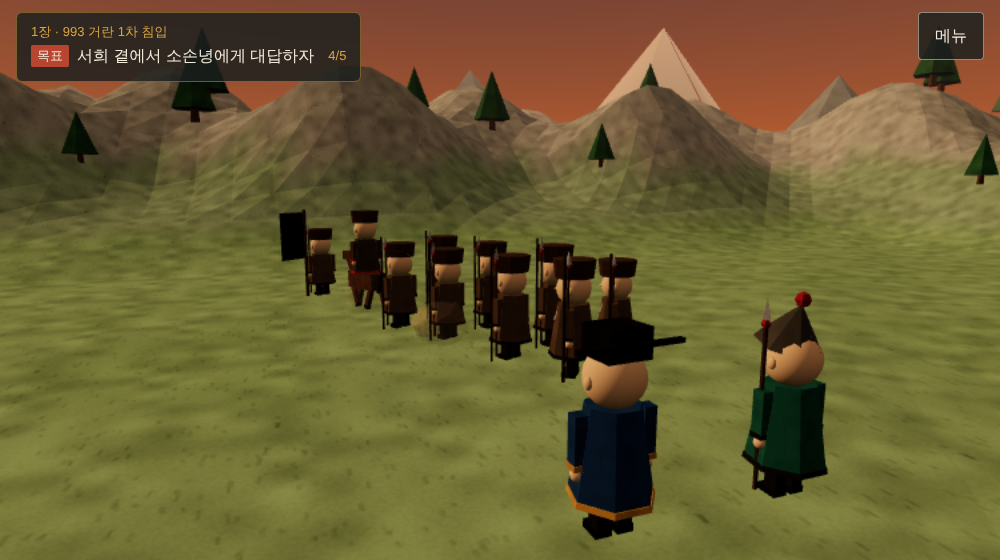
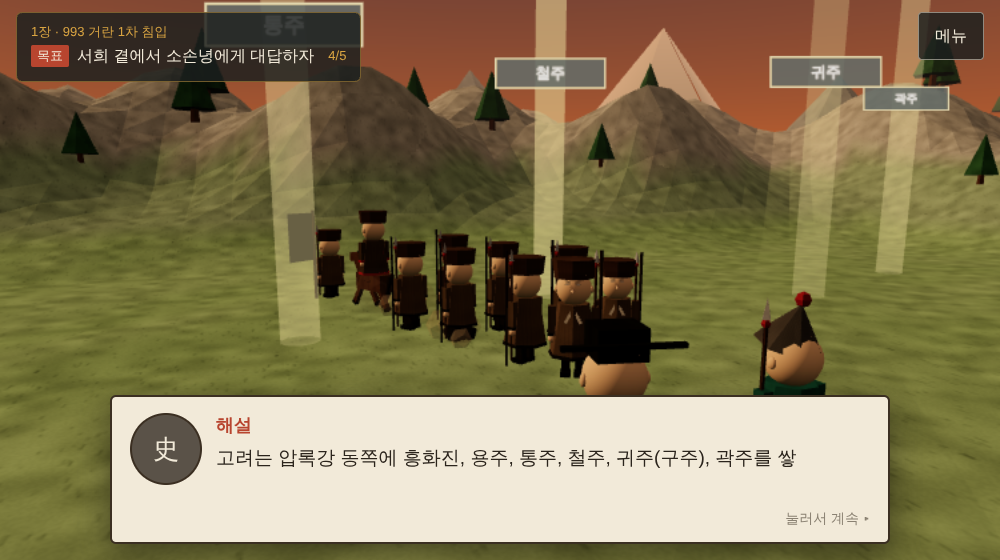
고려 1장: 물러나는 거란군의 걸음 동작(D-9-1)
- 병사 다리에 무릎을 달고, 걸음 박자에 맞춰 다리를 크게 앞뒤로·내딛는 다리 무릎을 굽힘
- 팔은 다리와 반대로 흔들고, 걸음마다 몸이 살짝 들썩이며, 사람마다 박자를 어긋나게
- 말은 대각선 다리 짝이 번갈아 나가고 머리를 끄덕임
- people: 장이 직접 걸음을 맡은 인물(userData.manual)은 자동 걷기 동작에서 뺌(다른 장은 그대로)

Claude-Session: https://claude.ai/code/session_014LB5kAoBxkJ3uzw5BHNRPe

diff --git a/chapters/ch1/scene.js b/chapters/ch1/scene.js
@@ -29,10 +29,12 @@ function makeHorse() {
   const p = (geo, color, x, y, z, parent = g) => { const m = new THREE.Mesh(geo, mat(color)); m.position.set(x, y, z); m.castShadow = true; parent.add(m); return m; };
   const coat = 0x6b4a32, dark = 0x2e2219;
   p(new THREE.BoxGeometry(0.62, 0.62, 1.6), coat, 0, 1.08, 0); // 몸통
-  p(new THREE.BoxGeometry(0.34, 0.85, 0.4), coat, 0, 1.55, 0.78).rotation.x = 0.5; // 목
-  p(new THREE.BoxGeometry(0.12, 0.75, 0.14), dark, 0, 1.68, 0.6).rotation.x = 0.5; // 갈기
-  p(new THREE.BoxGeometry(0.3, 0.32, 0.64), coat, 0, 1.92, 1.12); // 머리
-  for (const sx of [-0.09, 0.09]) p(new THREE.ConeGeometry(0.05, 0.16, 4), dark, sx, 2.13, 0.92);
+  // 목·갈기·머리·귀는 목 밑동(0, 1.3, 0.62)을 축으로 묶는다: 걸을 때 머리를 살짝 끄덕인다(D-9)
+  const head = new THREE.Group(); head.position.set(0, 1.3, 0.62); g.add(head);
+  p(new THREE.BoxGeometry(0.34, 0.85, 0.4), coat, 0, 0.25, 0.16, head).rotation.x = 0.5; // 목
+  p(new THREE.BoxGeometry(0.12, 0.75, 0.14), dark, 0, 0.38, -0.02, head).rotation.x = 0.5; // 갈기
+  p(new THREE.BoxGeometry(0.3, 0.32, 0.64), coat, 0, 0.62, 0.5, head); // 머리
+  for (const sx of [-0.09, 0.09]) p(new THREE.ConeGeometry(0.05, 0.16, 4), dark, sx, 0.83, 0.3, head);
   p(new THREE.BoxGeometry(0.12, 0.7, 0.12), dark, 0, 1.0, -0.88).rotation.x = -0.35; // 꼬리
   p(new THREE.BoxGeometry(0.66, 0.1, 0.62), 0x7a2a22, 0, 1.43, 0); // 안장
   const legs = [];
@@ -42,8 +44,32 @@ function makeHorse() {
     p(new THREE.BoxGeometry(0.18, 0.1, 0.2), dark, 0, -0.8, 0, piv);
     legs.push(piv);
   }
-  g.userData.legs = legs;
+  g.userData.legs = legs; g.userData.head = head;
   return g;
+}
+
+// 물러나는 거란 병사 다리에 무릎을 단다(D-9, 1장만): 다리 한 토막을 허벅지와 정강이로 나누고 신발은 정강이에
+function addKnees(person) {
+  const box = (w, h, d, color, y, z, parent) => { const m = new THREE.Mesh(new THREE.BoxGeometry(w, h, d), mat(color)); m.position.set(0, y, z); m.castShadow = true; parent.add(m); return m; };
+  for (const leg of person.userData.legs) {
+    for (const c of leg.children) c.visible = false; // 굳히기로 합쳐졌을 수도 있는 원래 다리 토막은 숨기고 새로 단다
+    box(0.2, 0.29, 0.22, 0x2b241c, -0.14, 0, leg); // 허벅지
+    const knee = new THREE.Group(); knee.position.y = -0.275; leg.add(knee);
+    box(0.2, 0.29, 0.22, 0x2b241c, -0.14, 0, knee); // 정강이
+    box(0.24, 0.12, 0.34, 0x1e1a16, -0.225, 0.05, knee); // 신발
+    leg.userData.knee = knee;
+  }
+  person.userData.manual = true; // 걷기 자동 움직임(animateWalkers) 대신 아래 marchGait로 움직인다
+}
+
+// 행군 걸음 한 박자(ph): 다리를 앞뒤로 크게, 앞으로 내딛는 다리는 무릎을 굽히고, 팔은 다리와 반대로, 걸음마다 몸이 살짝 들썩인다
+function marchGait(o, ph) {
+  const u = o.userData, s = Math.sin(ph), c = Math.cos(ph);
+  u.legs[0].rotation.x = s * 0.75; u.legs[1].rotation.x = -s * 0.75;
+  u.legs[0].userData.knee.rotation.x = 0.1 + Math.max(0, -c) * 1.1;
+  u.legs[1].userData.knee.rotation.x = 0.1 + Math.max(0, c) * 1.1;
+  u.arms[0].rotation.x = -s * 0.65; u.arms[1].rotation.x = s * 0.65;
+  return Math.abs(c) * 0.08; // 들썩이는 높이
 }
 
 export function buildCh1Scene(world) {
@@ -278,9 +304,10 @@ export function buildCh1Scene(world) {
       const side = i < 2 ? 0 : ((i - 2) % 2 ? 0.9 : -0.9), along = i === 0 ? 5 : i === 1 ? 2.5 : -(row - 2) * 1.6;
       const x = DX * along - DZ * side, z = -41 + DZ * along + DX * side;
       o.position.set(x, Math.max(0, groundH(x, z)), z); o.rotation.y = 0; o.visible = true; // 처음에는 고려 쪽을 보고 서 있다
+      if (o !== horse) addKnees(o);
       const mats = [];
       o.traverse(m => { if (m.isMesh) { m.material = m.material.clone(); m.material.transparent = true; mats.push(m.material); } });
-      march.push({ o, delay: 0.4 + row * 0.35, mats });
+      march.push({ o, delay: 0.4 + row * 0.35, mats, ph: i * 2.3 + (i % 3) * 0.7 }); // ph: 사람마다 걸음 박자를 조금씩 어긋나게
     });
     const n = Math.round(6 + 8 * Math.min(1, q.particles));
     for (let i = 0; i < n; i++) {
@@ -311,11 +338,15 @@ export function buildCh1Scene(world) {
         const e = Math.min(1, k / 0.55); o.rotation.y = FACE * e * e * (3 - 2 * e); // 몸을 돌린다
         if (e < 1) continue;
         o.position.x += DX * MARCH * dt; o.position.z += DZ * MARCH * dt;
-        o.position.y = Math.max(0, groundH(o.position.x, o.position.z));
+        const ph = marchT * 7.5 + u.ph;
+        o.position.y = Math.max(0, groundH(o.position.x, o.position.z)) + (o === horse ? Math.abs(Math.cos(ph)) * 0.05 : marchGait(o, ph));
         const a = Math.min(1, Math.max(0, (o.position.z - GONE) / (FADE_FROM - GONE)));
         for (const m of u.mats) m.opacity = a;
         if (o.position.z < GONE) { o.visible = false; continue; }
-        if (o === horse) { const s = Math.sin(marchT * 9) * 0.5; horse.userData.legs.forEach((l, j) => { l.rotation.x = j === 0 || j === 3 ? s : -s; }); }
+        if (o === horse) { // 대각선 짝(앞왼·뒤오른 / 앞오른·뒤왼)이 번갈아 나가고, 머리를 걸음에 맞춰 끄덕인다
+          const s = Math.sin(ph) * 0.6; horse.userData.legs.forEach((l, j) => { l.rotation.x = j === 0 || j === 3 ? s : -s; });
+          horse.userData.head.rotation.x = Math.sin(ph * 2) * 0.08;
+        }
         if (o.position.z > FADE_FROM) walking.push(o);
       }
       if (walking.length && dustT > 0.14) { // 발밑 흙먼지

diff --git a/tests/ch1.test.js b/tests/ch1.test.js
@@ -288,3 +288,32 @@ test('ch1 D-7: the Khitan army turns and marches away in a column (flag first, S
   ok(army.every(o => !o.visible), 'gone into the distance');
   w.dispose();
 });
+
+// D-9: 물러나는 거란군은 걸음에 맞춰 다리(허벅지·무릎)와 반대쪽 팔을 크게 흔들고, 걸음마다 몸이 들썩이며, 사람마다 박자가 다르다. 말은 대각선 다리를 번갈아, 머리를 끄덕인다
+test('ch1 D-9: retreating soldiers swing legs, knees and arms with a bob; the horse nods', () => {
+  const w = testWorld();
+  try {
+    const sc = buildCh1Scene(w);
+    const army = sc.startRetreat();
+    const feet = army.filter(o => o !== sc.horse);
+    const a = feet[1], b = feet[2];
+    let maxLeg = 0, maxKnee = 0, opposite = 0, samples = 0, ys = new Set(), phaseDiff = 0, nod = new Set();
+    for (let i = 0; i < 160; i++) {
+      w.step(0.03, { x: 0, z: 0 });
+      if (i < 80) continue;
+      const u = a.userData, L = u.legs[0].rotation.x;
+      maxLeg = Math.max(maxLeg, Math.abs(L));
+      maxKnee = Math.max(maxKnee, u.legs[0].userData.knee ? u.legs[0].userData.knee.rotation.x : 0, u.legs[1].userData.knee ? u.legs[1].userData.knee.rotation.x : 0);
+      if (Math.abs(L) > 0.2) { samples += 1; if (Math.sign(u.arms[0].rotation.x) === -Math.sign(L)) opposite += 1; }
+      ys.add((a.position.y - Math.max(0, 0)).toFixed(3));
+      phaseDiff = Math.max(phaseDiff, Math.abs(L - b.userData.legs[0].rotation.x));
+      nod.add(sc.horse.userData.head.rotation.x.toFixed(3));
+    }
+    ok(maxLeg > 0.6, `legs swing wide (${maxLeg.toFixed(2)})`);
+    ok(maxKnee > 0.5, `knees bend (${maxKnee.toFixed(2)})`);
+    ok(samples > 5 && opposite === samples, `arms swing opposite to legs (${opposite}/${samples})`);
+    ok(ys.size > 5, 'body bobs up and down');
+    ok(phaseDiff > 0.2, 'soldiers are not in lockstep');
+    ok(nod.size > 5, 'horse head nods');
+  } finally { w.dispose(); }
+});

diff --git a/core/people.js b/core/people.js
@@ -88,6 +88,7 @@ export function animateWalkers(dt, root) {
     let top = g; while (top.parent) top = top.parent;
     if (top !== root) { if (g.userData.seen) walkers.delete(g); continue; } // 장면에서 치운 인물은 놓아준다
     const u = g.userData; u.seen = true;
+    if (u.manual) continue; // 장이 직접 걸음 동작을 맡은 인물(고려 1장 물러나는 거란군)
     g.getWorldPosition(wp);
     const moved = u.last ? Math.hypot(wp.x - u.last.x, wp.z - u.last.z) / dt : 0;
     if (!u.last) u.last = new THREE.Vector3();
